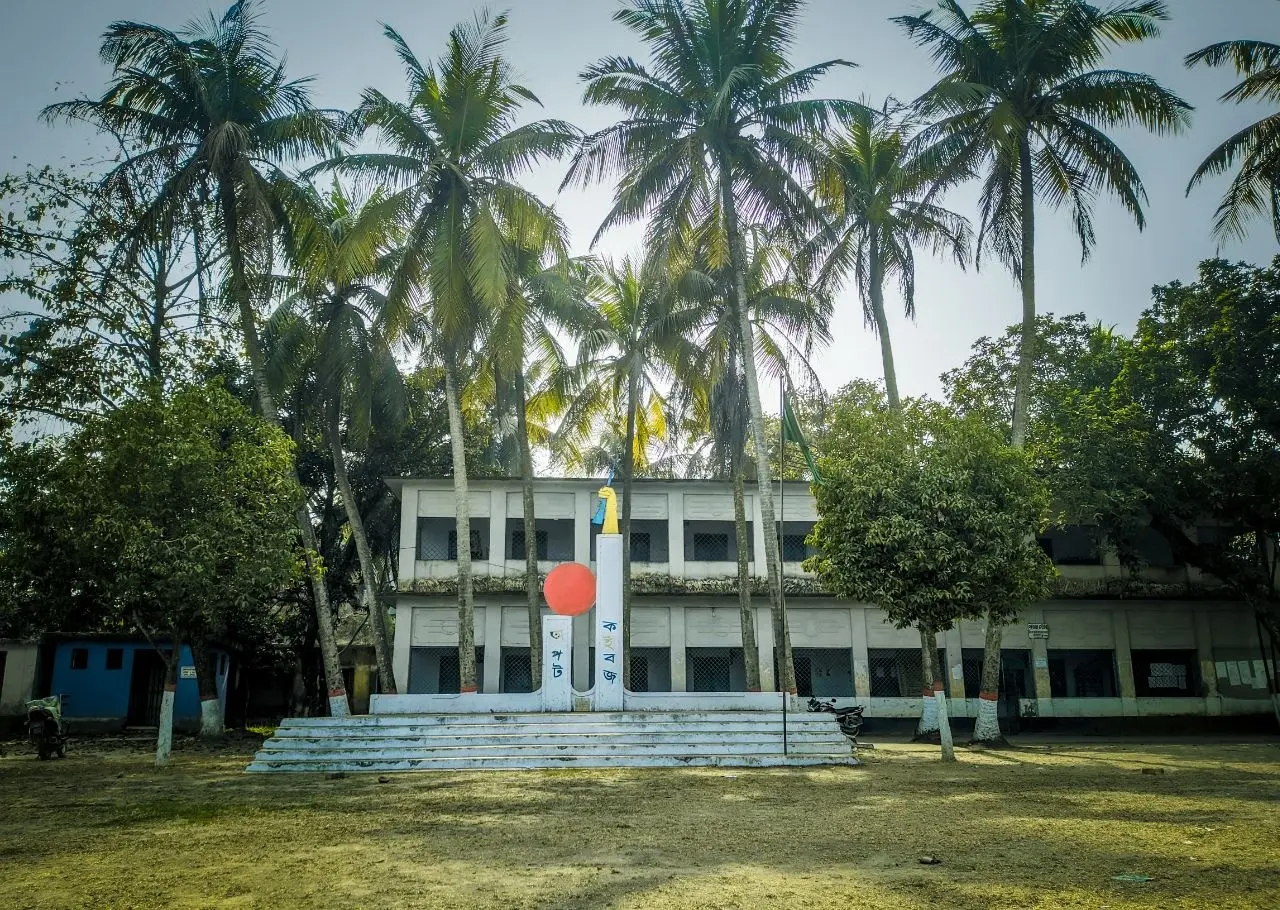
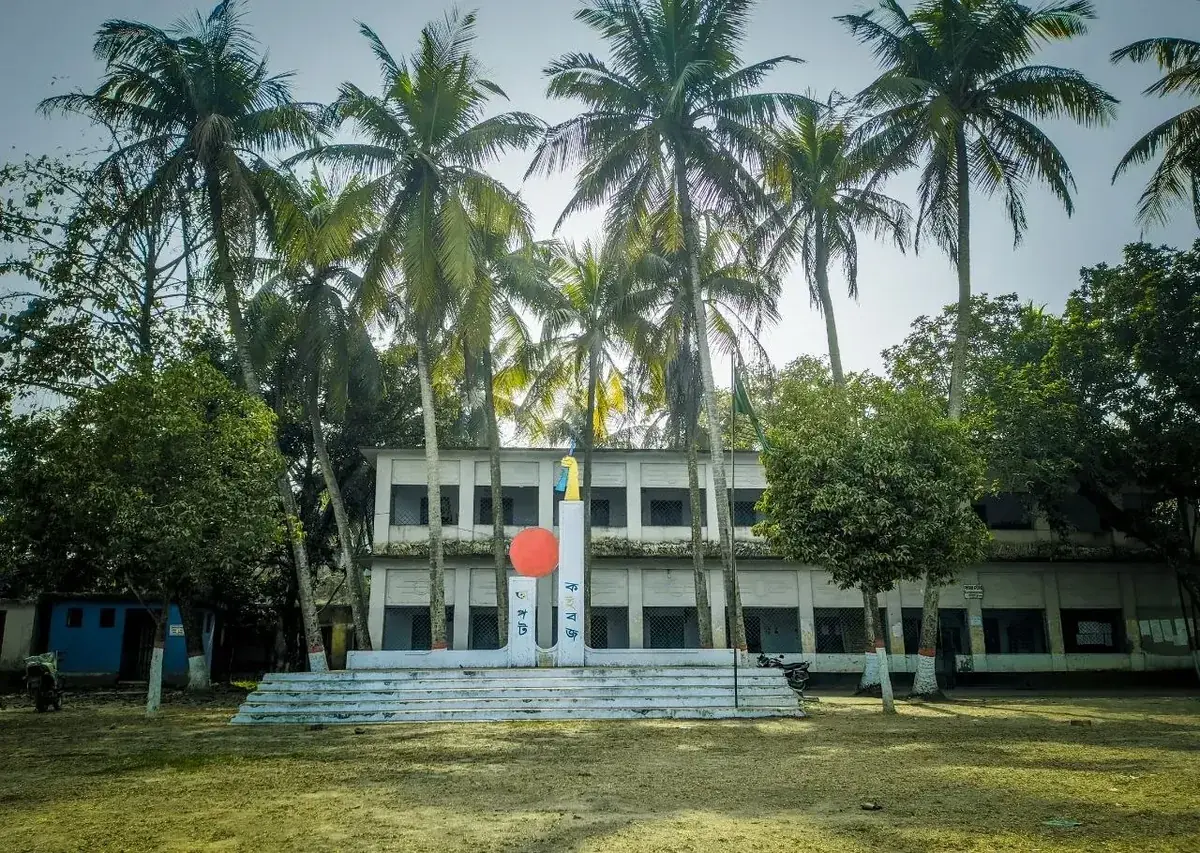
updated education image implementation to use static imports and optimized next/image sizing

diff --git a/app/_components/Education/educationData.ts b/app/_components/Education/educationData.ts
@@ -4,6 +4,9 @@ import {
   LuAward,
 } from "react-icons/lu";
 import { type EducationItem } from "@/app/_types";
+import bachelorImg from "@/public/bachelor.webp";
+import hscImg from "@/public/hsc.webp";
+import sscImg from "@/public/ssc.webp";
 
 export type { EducationItem };
 
@@ -19,7 +22,7 @@ export const educationData: EducationItem[] = [
     status: "Graduated",
     featured: true,
     icon: LuGraduationCap,
-    image: "/bachelor.webp",
+    image: bachelorImg,
   },
   {
     id: "hsc",
@@ -31,7 +34,7 @@ export const educationData: EducationItem[] = [
     gpa: "GPA 4.83 / 5.00",
     status: "Science",
     icon: LuSchool,
-    image: "/hsc.webp",
+    image: hscImg,
   },
   {
     id: "ssc",
@@ -43,6 +46,6 @@ export const educationData: EducationItem[] = [
     gpa: "GPA 5.00 / 5.00",
     status: "Science",
     icon: LuAward,
-    image: "/ssc.webp",
+    image: sscImg,
   },
 ];

diff --git a/app/_components/Education/EducationCard.tsx b/app/_components/Education/EducationCard.tsx
@@ -50,11 +50,10 @@ export default function EducationCard({ item }: EducationCardProps) {
           <Image
             src={item.image}
             alt={`${item.institution} campus`}
-            blurDataURL={item.image}
-            placeholder="blur"
             fill
+            placeholder="blur"
             priority
-            sizes="(max-width: 768px) 100vw, (max-width: 1200px) 33vw, 400px"
+            sizes="(max-width: 640px) 92vw, (max-width: 1024px) 33vw, 380px"
             className="object-cover group-hover:scale-105 transition-transform duration-500 ease-out"
           />
 

diff --git a/app/_types/education.ts b/app/_types/education.ts
@@ -1,4 +1,6 @@
 import type { IconType } from "react-icons";
+import type { StaticImageData } from "next/image";
+
 
 export interface EducationItem {
   id: string;
@@ -11,5 +13,5 @@ export interface EducationItem {
   status?: string;
   featured?: boolean;
   icon: IconType;
-  image?: string;
+  image?: string | StaticImageData;
 }
